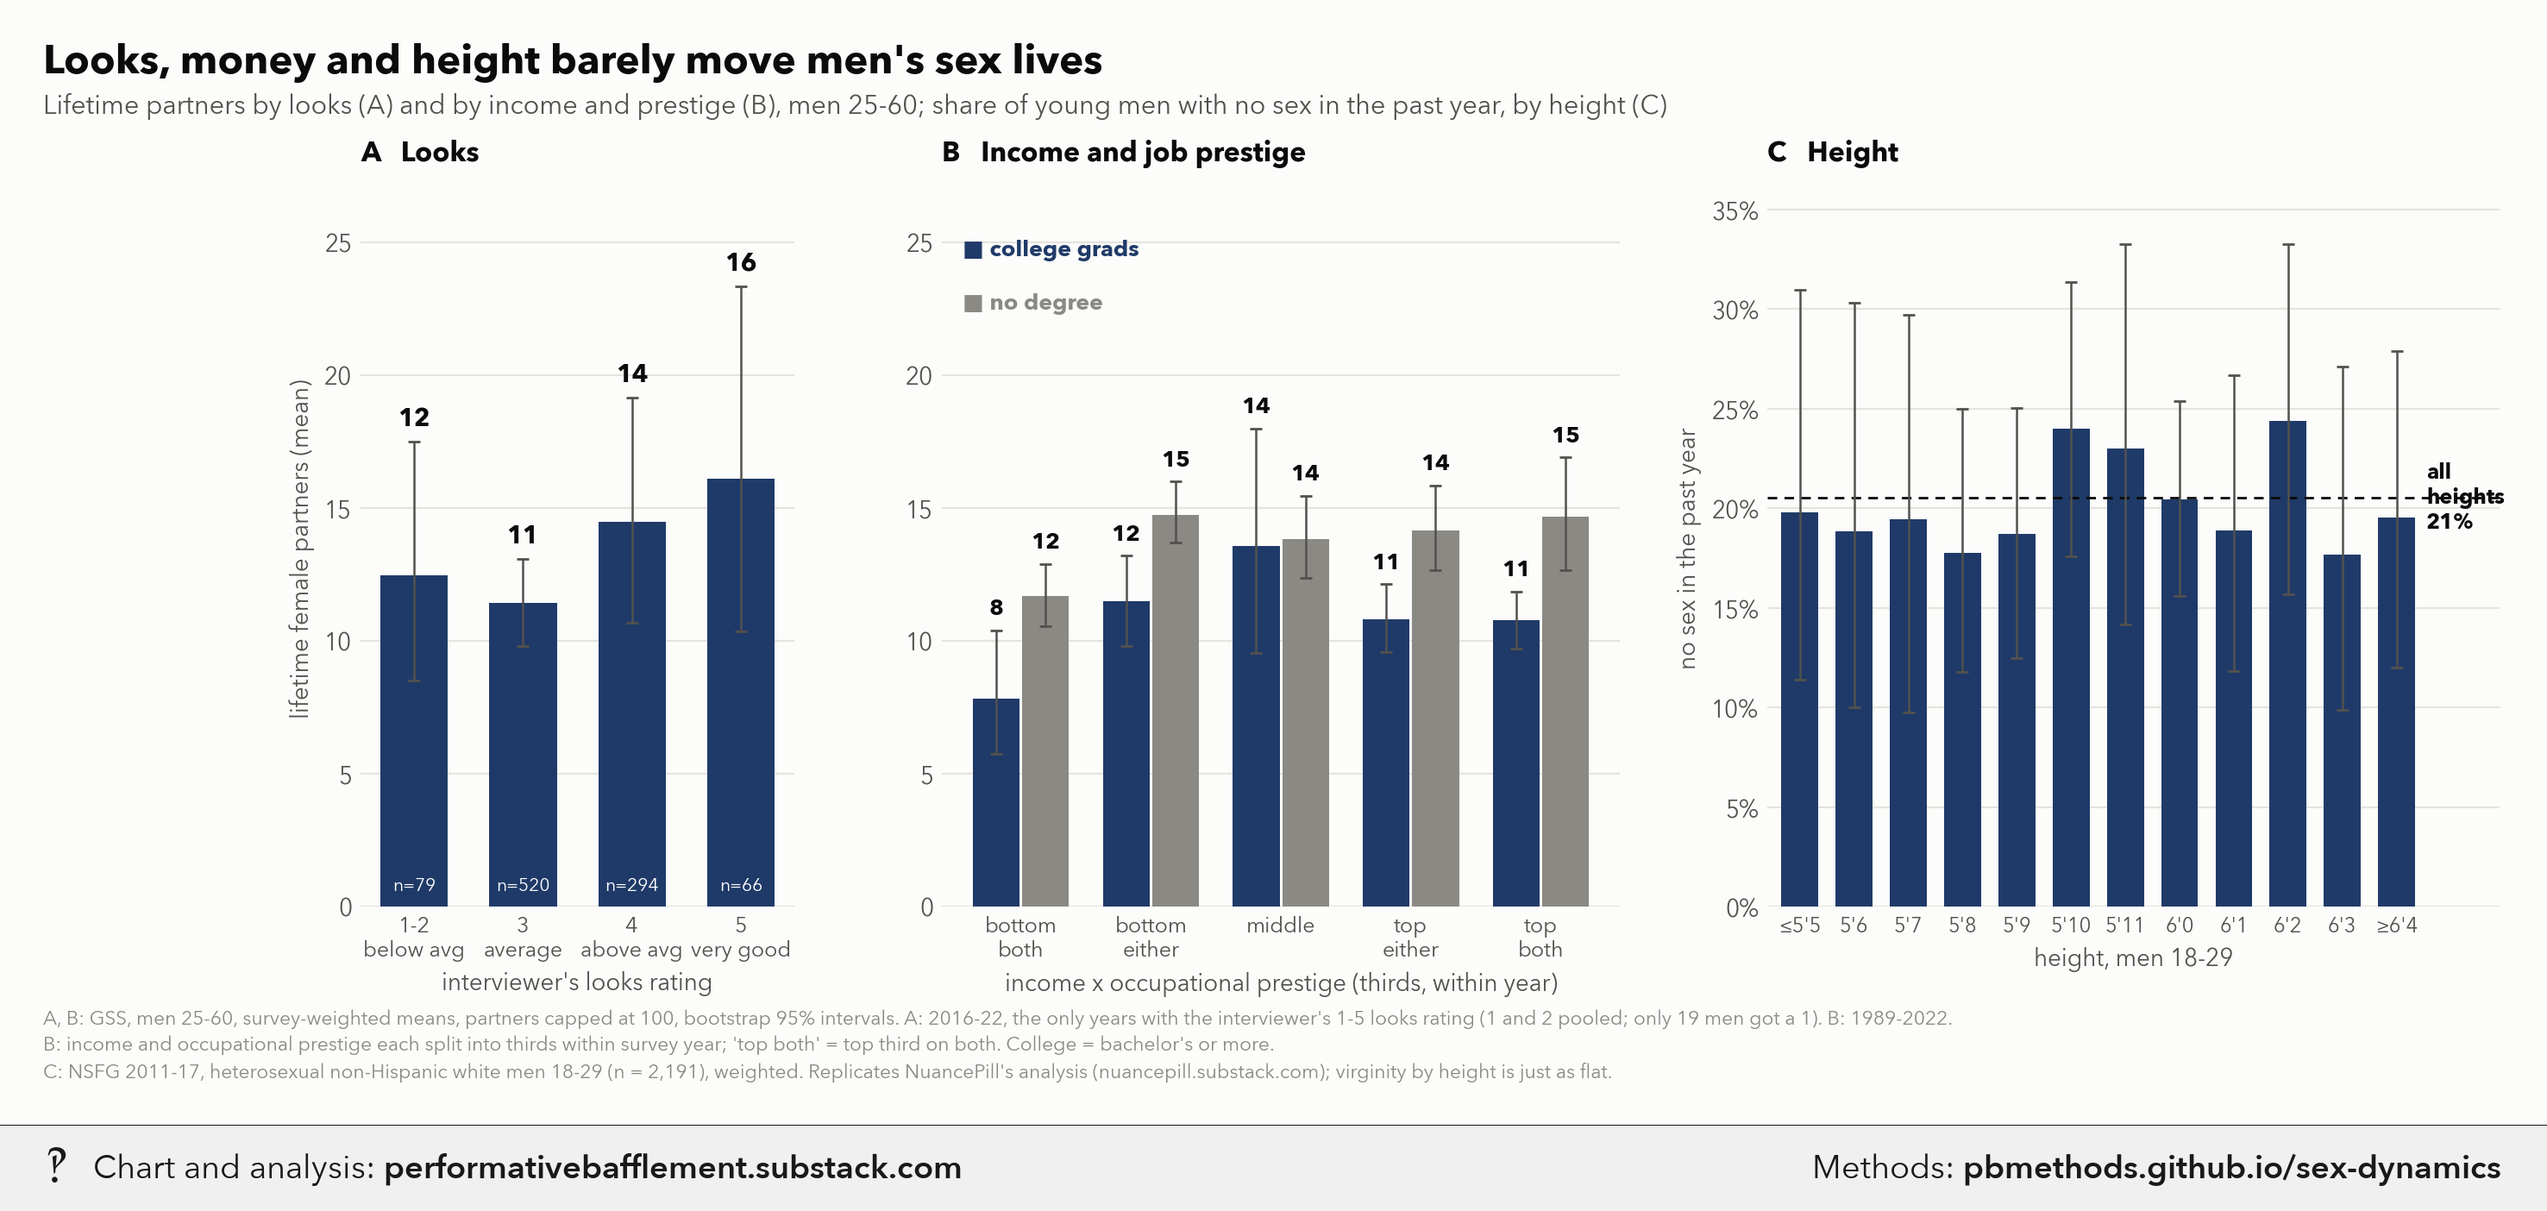
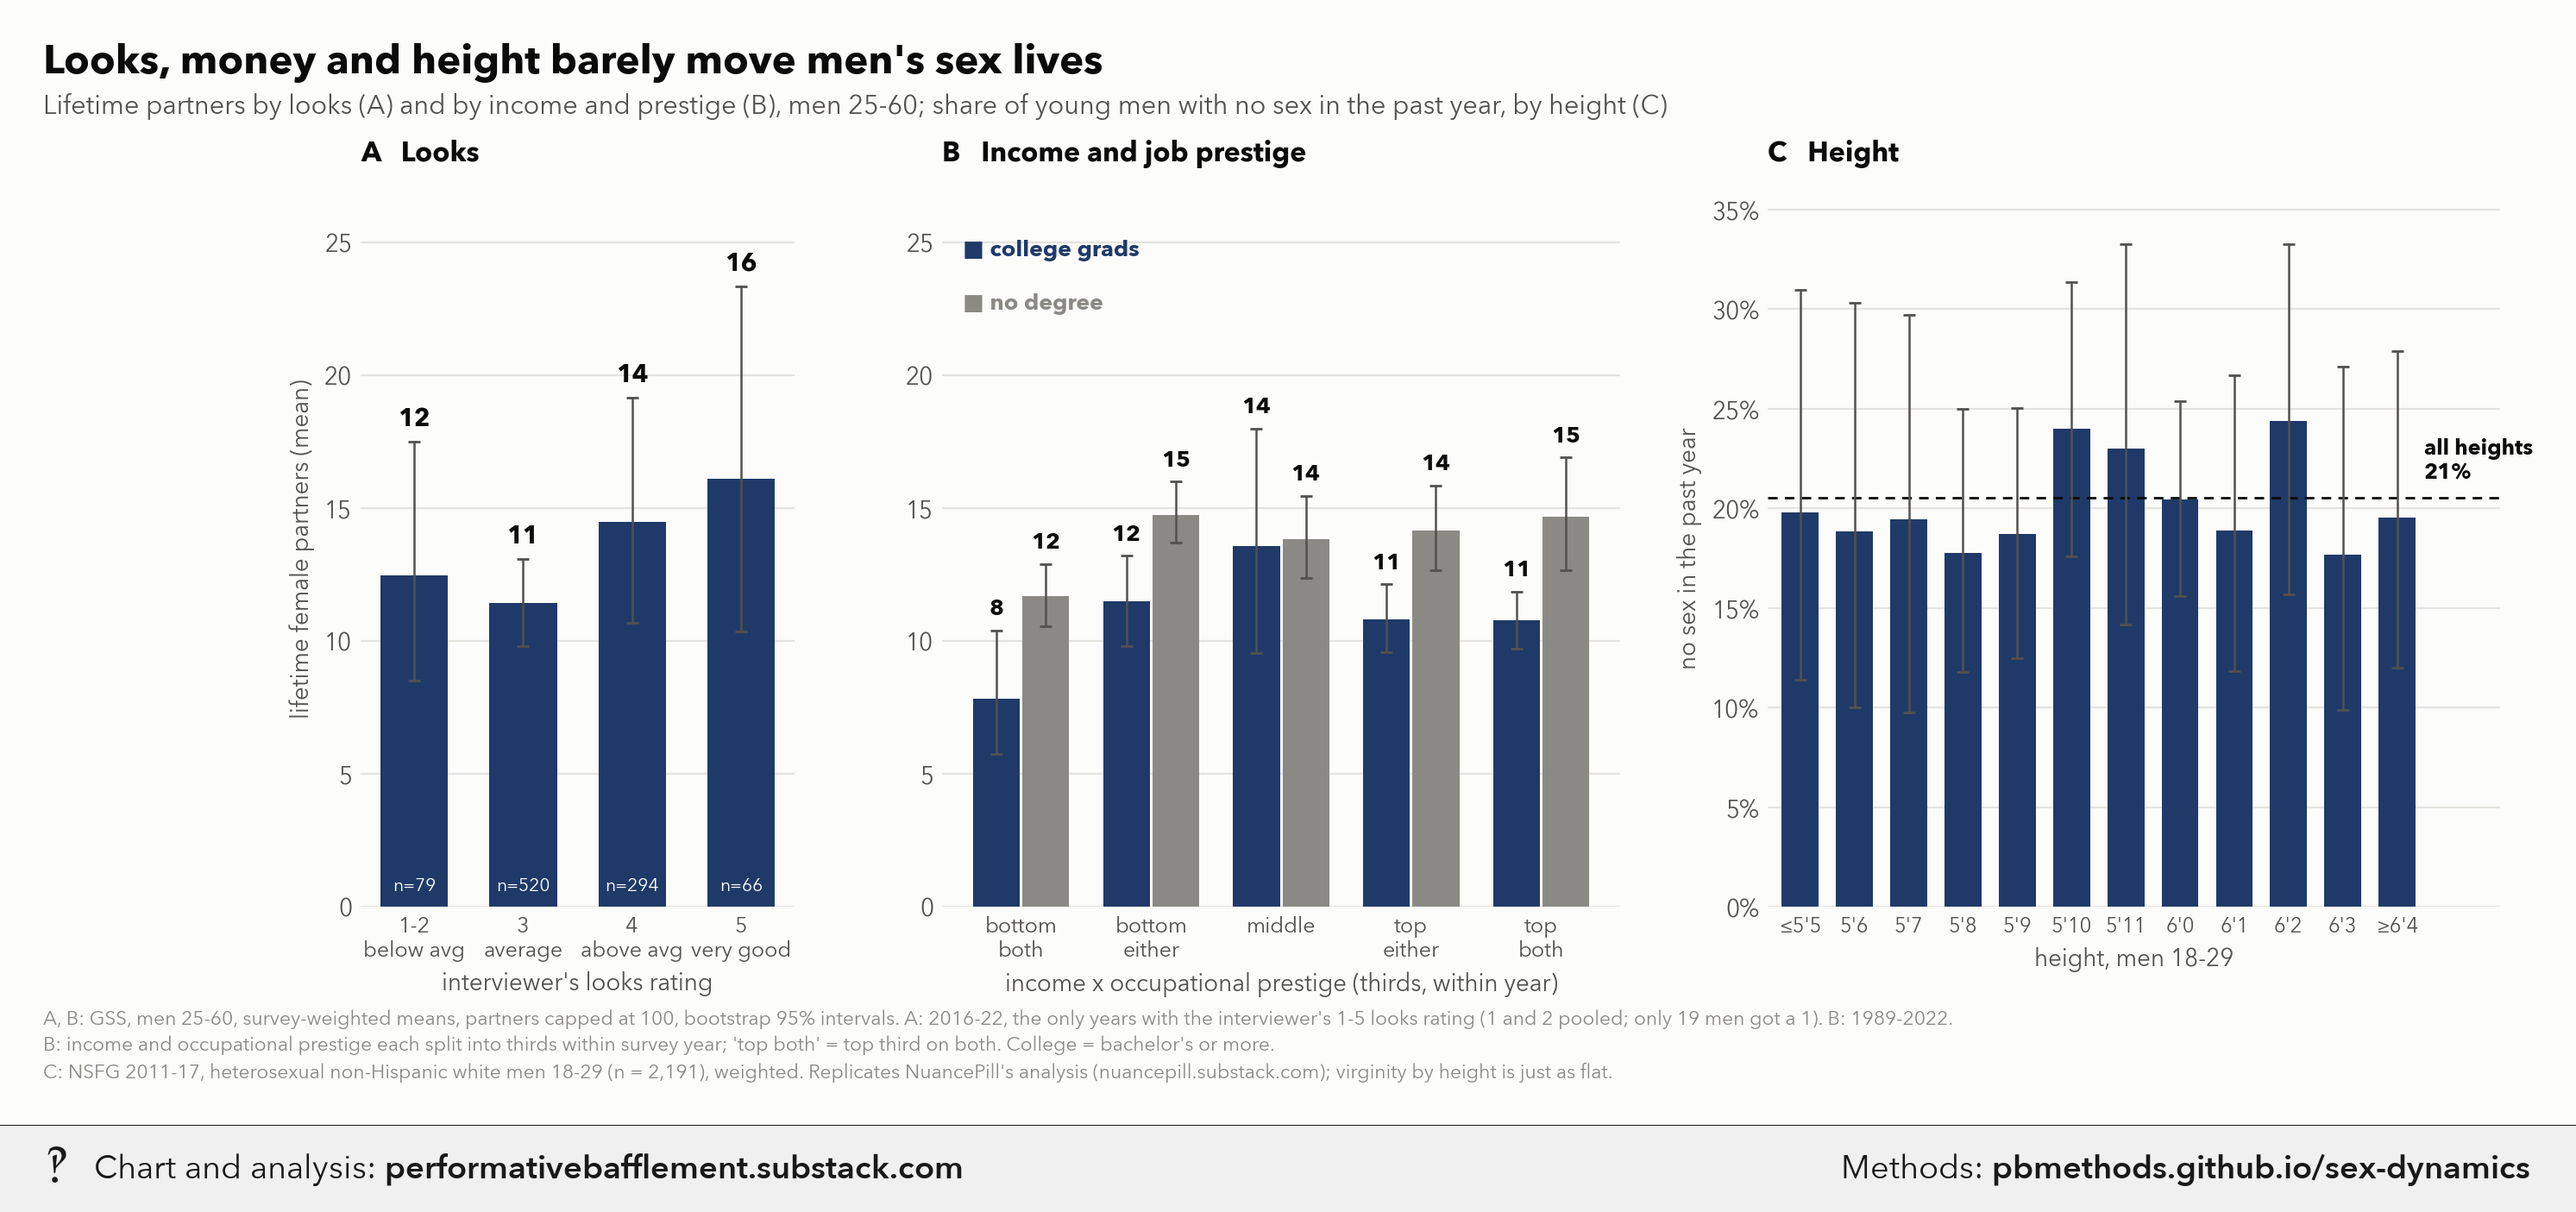
Update sex-dynamics

diff --git a/sex-dynamics/index.html b/sex-dynamics/index.html
@@ -1380,7 +1380,7 @@ ax.bar(x, h.pct_sexless, width=0.68, color=NAVY)
 errbars(ax, x, h.pct_sexless, h.sexless_lo, h.sexless_hi)
 avg = float(ht.loc[ht.inches == 0, &quot;pct_sexless&quot;].iloc[0])
 ax.axhline(avg, color=INK, lw=1, ls=(0, (4, 3)))
-ax.text(11.55, avg, f&quot;all\nheights\n{avg:.0f}%&quot;, ha=&quot;left&quot;, va=&quot;center&quot;, fontsize=9, color=INK, fontweight=&quot;bold&quot;)
+ax.text(11.5, avg + 0.7, f&quot;all heights\n{avg:.0f}%&quot;, ha=&quot;left&quot;, va=&quot;bottom&quot;, fontsize=9, color=INK, fontweight=&quot;bold&quot;)
 ax.set_xlim(-0.6, 12.9)
 ax.set_xticks(x, h.height, fontsize=8.5)
 ax.yaxis.set_major_formatter(ppt); ax.set_ylim(0, 36)

diff --git a/sex-dynamics/methods.md b/sex-dynamics/methods.md
@@ -704,7 +704,7 @@ ax.bar(x, h.pct_sexless, width=0.68, color=NAVY)
 errbars(ax, x, h.pct_sexless, h.sexless_lo, h.sexless_hi)
 avg = float(ht.loc[ht.inches == 0, "pct_sexless"].iloc[0])
 ax.axhline(avg, color=INK, lw=1, ls=(0, (4, 3)))
-ax.text(11.55, avg, f"all\nheights\n{avg:.0f}%", ha="left", va="center", fontsize=9, color=INK, fontweight="bold")
+ax.text(11.5, avg + 0.7, f"all heights\n{avg:.0f}%", ha="left", va="bottom", fontsize=9, color=INK, fontweight="bold")
 ax.set_xlim(-0.6, 12.9)
 ax.set_xticks(x, h.height, fontsize=8.5)
 ax.yaxis.set_major_formatter(ppt); ax.set_ylim(0, 36)
